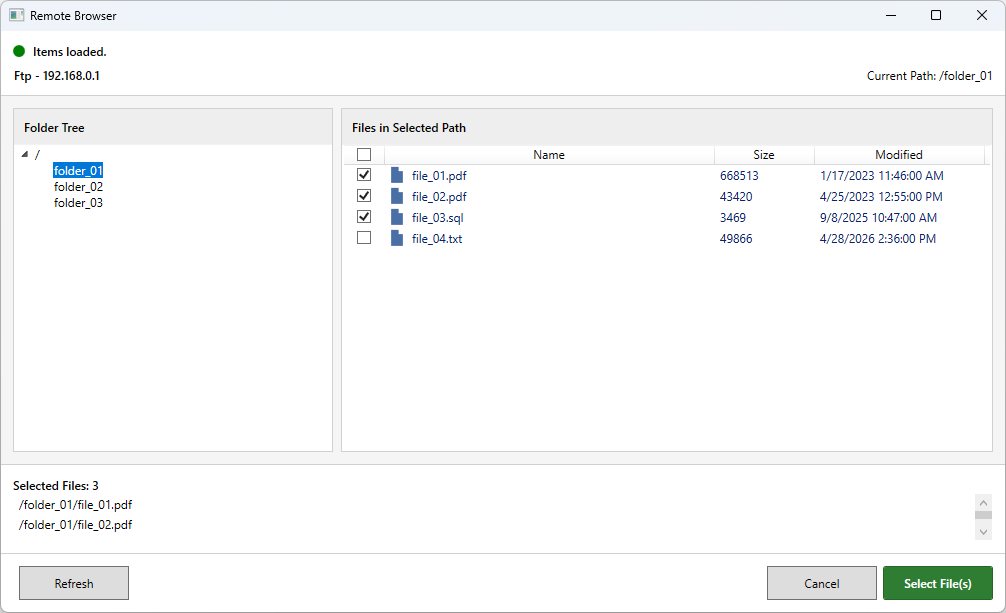
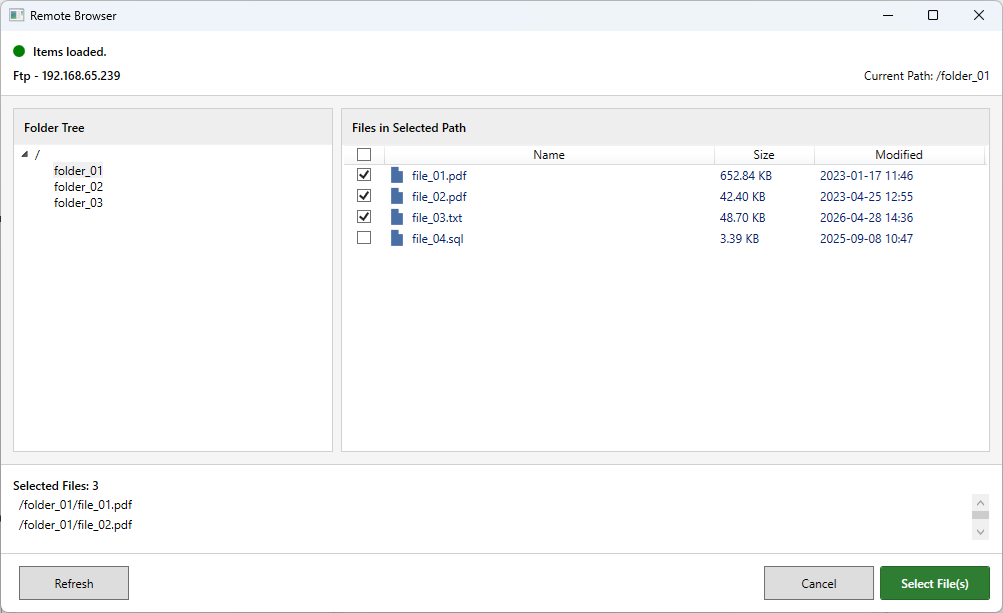
Add standardized date formatting and human-readable file size formatting

diff --git a/RemoteFileDialog.Wpf/Dialogs/RemoteFilePickerDialog.xaml b/RemoteFileDialog.Wpf/Dialogs/RemoteFilePickerDialog.xaml
@@ -280,11 +280,11 @@
 
                                 <GridViewColumn Header="Size"
                                         Width="100"
-                                        DisplayMemberBinding="{Binding Size}"/>
+                                        DisplayMemberBinding="{Binding SizeText}"/>
 
                                 <GridViewColumn Header="Modified"
                                         Width="170"
-                                        DisplayMemberBinding="{Binding ModifiedDate}"/>
+                                        DisplayMemberBinding="{Binding ModifiedDateText}"/>
                             </GridView>
                         </ListView.View>
 

diff --git a/RemoteFileDialog.Wpf/Dialogs/RemoteFolderDialog.xaml b/RemoteFileDialog.Wpf/Dialogs/RemoteFolderDialog.xaml
@@ -268,7 +268,7 @@
                                 </GridViewColumn>
 
                                 <GridViewColumn Header="Modified" Width="160"
-                                                DisplayMemberBinding="{Binding ModifiedDate}"/>
+                                                DisplayMemberBinding="{Binding ModifiedDateText}"/>
                             </GridView>
                         </ListView.View>
 

diff --git a/RemoteFileDialog.Wpf/ViewModels/RemoteListItemViewModel.cs b/RemoteFileDialog.Wpf/ViewModels/RemoteListItemViewModel.cs
@@ -59,6 +59,48 @@ public sealed partial class RemoteListItemViewModel : ObservableObject
     public DateTime? ModifiedDate => RemoteItem.ModifiedDate;
 
     /// <summary>
+    /// Gets the formatted modified date.
+    /// </summary>
+    public string ModifiedDateText => ModifiedDate.HasValue
+        ? ModifiedDate.Value.ToString("yyyy-MM-dd HH:mm")
+        : string.Empty;
+
+    /// <summary>
+    /// Gets the formatted file size.
+    /// </summary>
+    public string SizeText
+    {
+        get
+        {
+            if (Size <= 0)
+            {
+                return string.Empty;
+            }
+
+            const double kb = 1024;
+            const double mb = kb * 1024;
+            const double gb = mb * 1024;
+
+            if (Size >= gb)
+            {
+                return $"{Size / gb:0.00} GB";
+            }
+
+            if (Size >= mb)
+            {
+                return $"{Size / mb:0.00} MB";
+            }
+
+            if (Size >= kb)
+            {
+                return $"{Size / kb:0.00} KB";
+            }
+
+            return $"{Size} B";
+        }
+    }
+
+    /// <summary>
     /// Gets or sets a value indicating whether the item is selected.
     /// </summary>
     [ObservableProperty]
